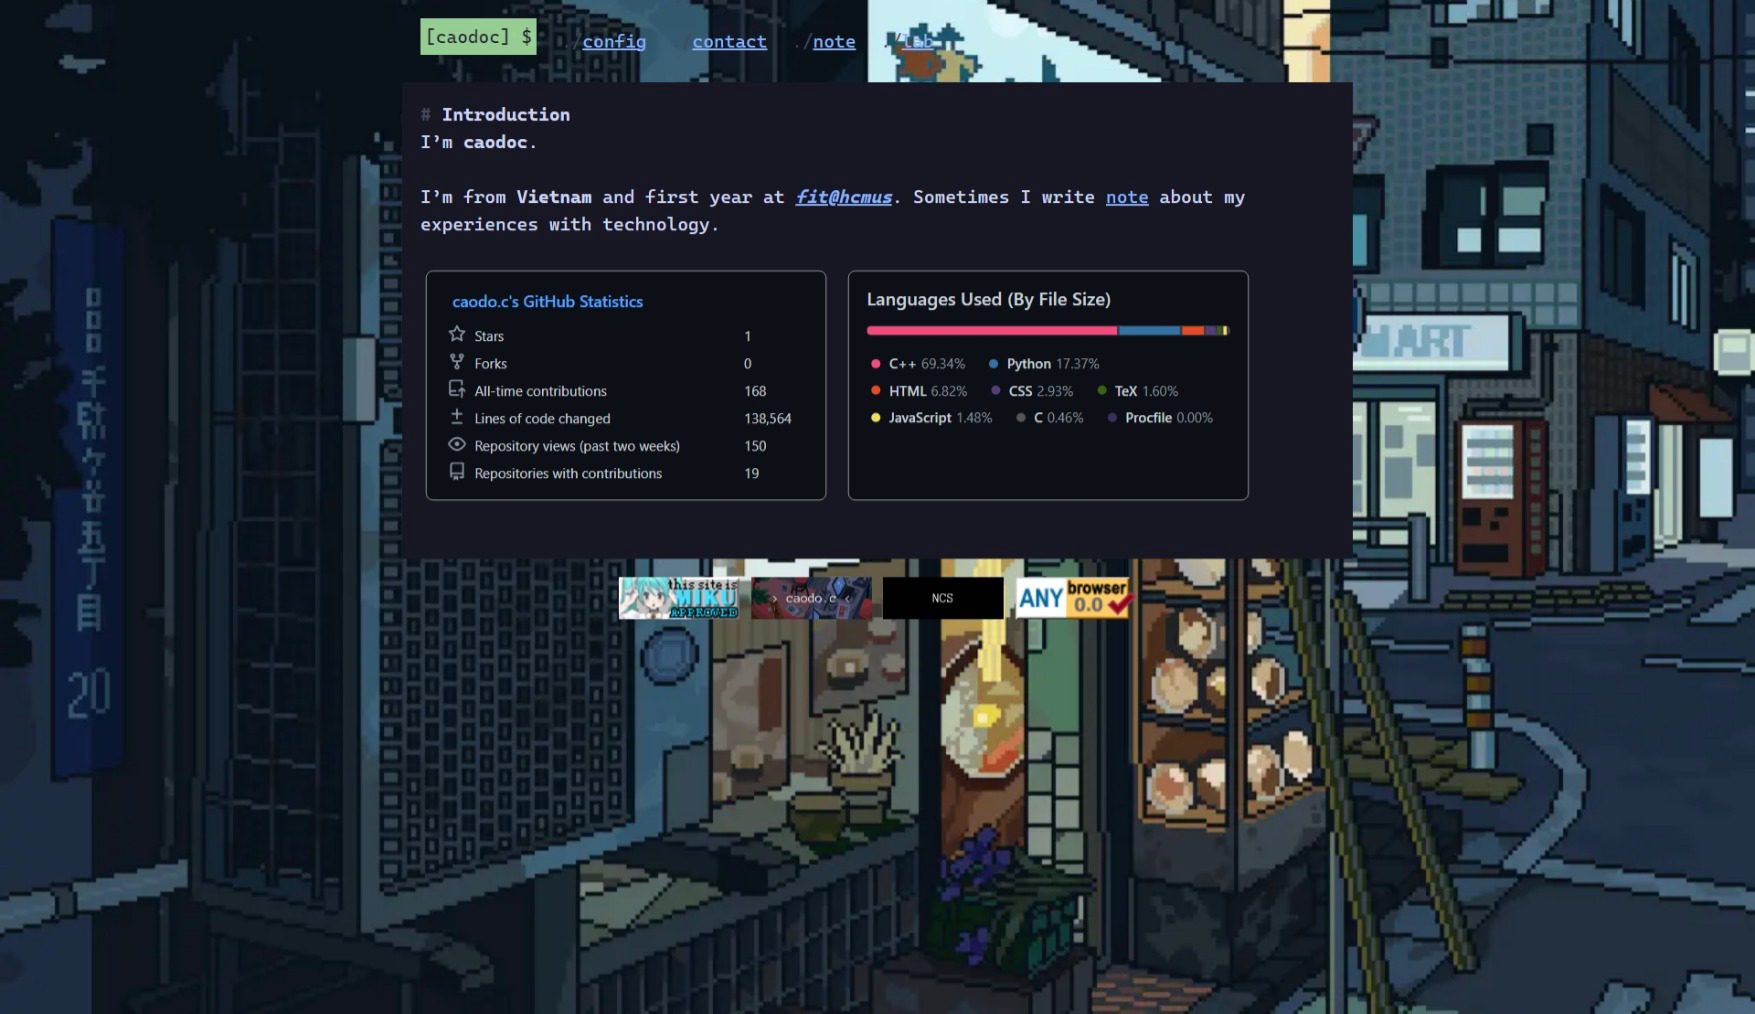
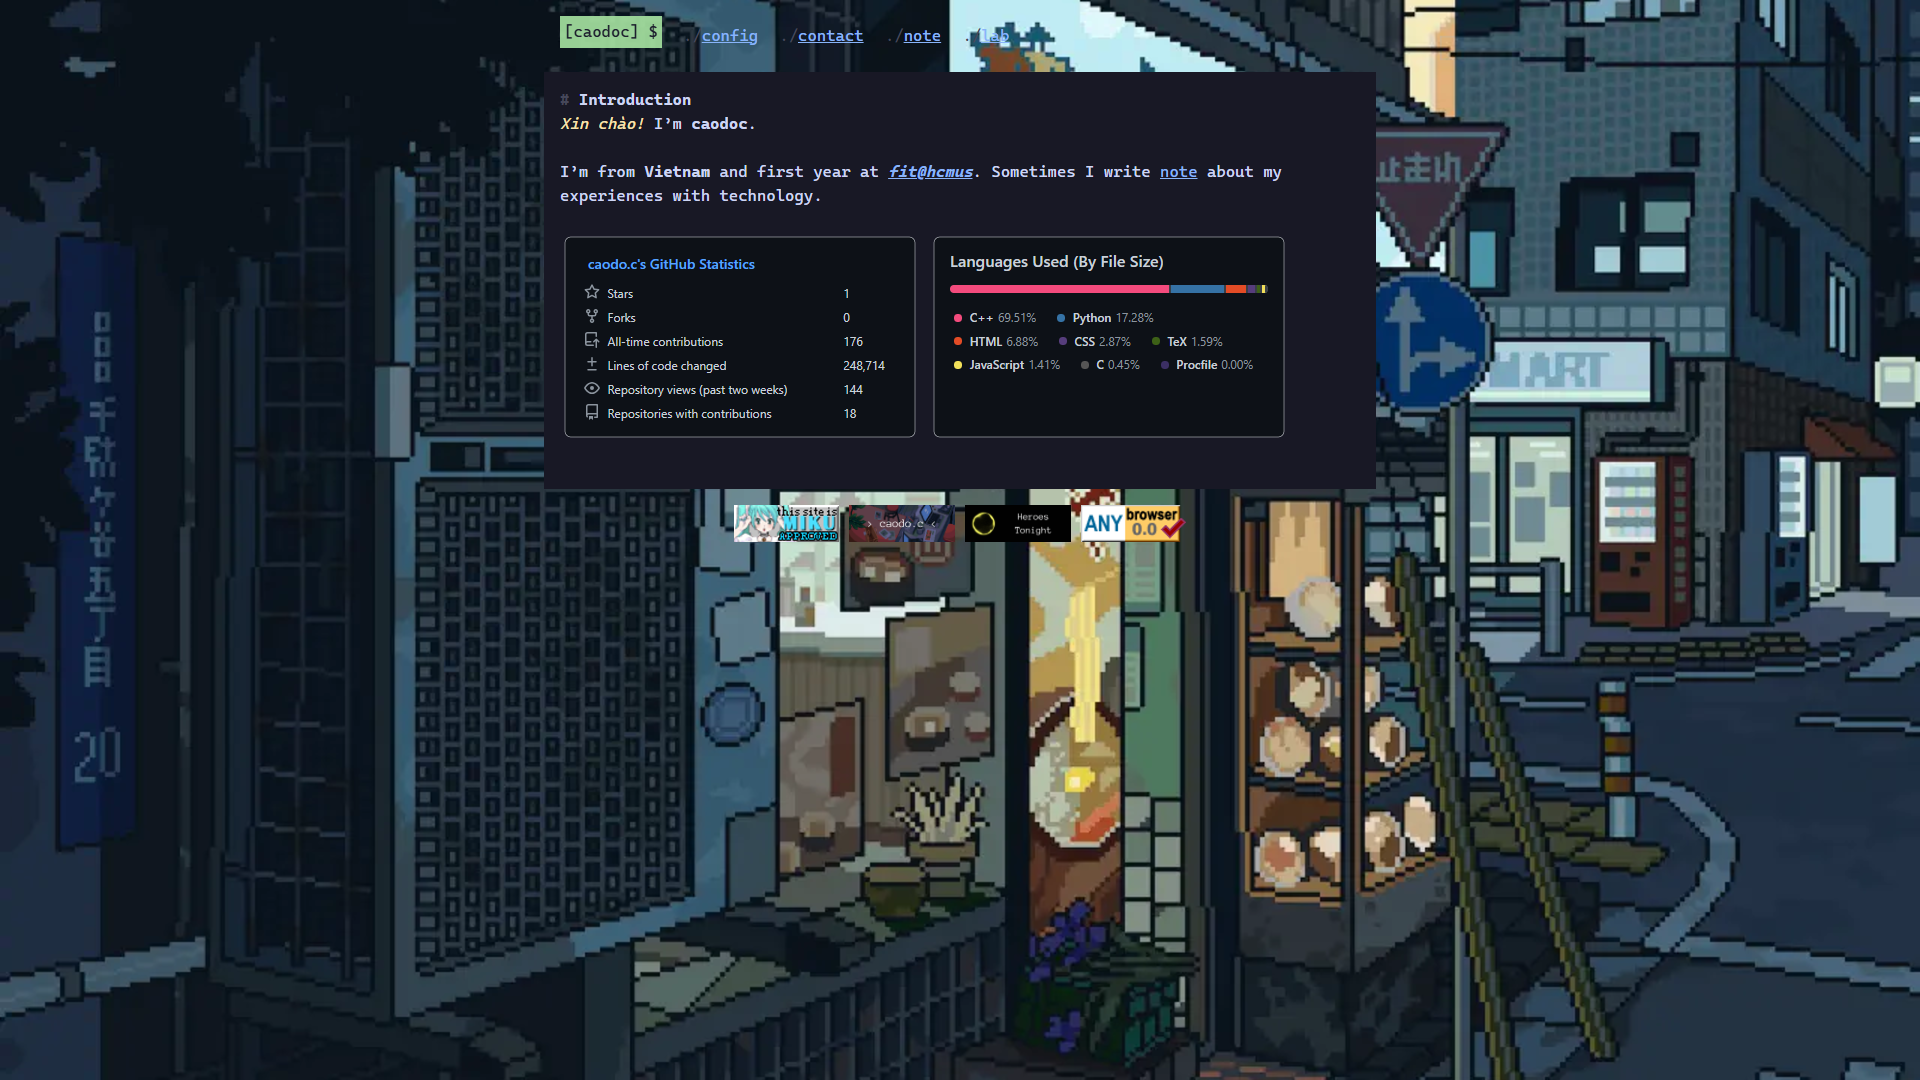
.

diff --git a/public/note/my-pc-configuration/index.html b/public/note/my-pc-configuration/index.html
@@ -33,7 +33,7 @@
 
 
 
-<title> My PC Configuration &ndash; caodoc </title>
+<title> My PC&#39;s Configuration &ndash; caodoc </title>
 
 <link rel="canonical" href="https://caodoc.is-a.dev">
 
@@ -74,31 +74,45 @@
 
             <section class="page-body">
     <header class="content-header">
-        <h1>My PC Configuration</h1>
+        <h1>My PC&rsquo;s Configuration</h1>
     </header>
     
     <div class="content-body">
-        <h2 id="faster-windows">Faster Windows:</h2>
+        <blockquote>
+<p>Last Updated: 24 November 2024</p>
+</blockquote>
+<h2 id="windows">Windows:</h2>
+<h3 id="tweak">Tweak:</h3>
 <ul>
-<li>Tweak Windows: <a href="https://winaero.com/winaero-tweaker/">Winaero Tweaker</a>.</li>
-<li>Remove bloatware: <a href="https://github.com/builtbybel/bloatbox">Bloatbox</a>.</li>
+<li>Free computer&rsquo;s resources: <a href="https://github.com/ChrisTitusTech/winutil/">ChrisTitusTech/winutil</a> &amp; <a href="https://winaero.com/winaero-tweaker/">Winaero Tweaker</a>.</li>
+<li>Remove unnecessary apps: <a href="https://github.com/builtbybel/bloatbox">Bloatbox</a>.</li>
 </ul>
-<h2 id="editor-visual-studio-codehttpscodevisualstudiocom-with">Editor: <a href="https://code.visualstudio.com/">Visual Studio Code</a> with</h2>
+<h3 id="editor">Editor:</h3>
+<ol>
+<li><a href="https://code.visualstudio.com/">Visual Studio Code</a></li>
+</ol>
 <ul>
 <li>Theme: <a href="https://marketplace.visualstudio.com/items?itemName=zhuangtongfa.Material-theme">One Dark Pro</a>.</li>
 <li>Extensions: <a href="https://marketplace.visualstudio.com/items?itemName=DivyanshuAgrawal.competitive-programming-helper">Competitive Programming Helper</a>, <a href="https://marketplace.visualstudio.com/items?itemName=adpyke.codesnap">CodeSnap</a>, <a href="https://marketplace.visualstudio.com/items?itemName=aaron-bond.better-comments">Better Comments</a>.</li>
 </ul>
-<h2 id="apps">Apps:</h2>
+<ol start="2">
+<li><a href="https://visualstudio.microsoft.com/">Visual Studio 2022</a></li>
+</ol>
 <ul>
-<li><a href="https://crystalmark.info/en/software/crystaldiskinfo/">Crystal Disk Info</a>: A SSD/HDD utility software.</li>
+<li>Theme: <a href="https://doki-theme.unthrottled.io/">Doki Theme</a></li>
+<li>Extensions: <a href="https://marketplace.visualstudio.com/items?itemName=NikolayBalakin.Outputenhancer">Output Enhancer</a>.</li>
+</ul>
+<h3 id="apps">Apps:</h3>
+<ul>
+<li><a href="https://crystalmark.info/en/software/crystaldiskinfo/">Crystal Disk Info</a>: Disks utility software.</li>
 <li><a href="https://www.voidtools.com/">Everything</a>: Better files/folders search.</li>
 <li><a href="https://notepad-plus-plus.org">Notepad++</a>: Extra text editor.</li>
 <li><a href="https://codecguide.com/download_kl.htm">K-Lite Codec</a>: Media player.</li>
 <li><a href="https://ohmyposh.dev/">Oh My Posh</a>: Customize Windows terminal, you can read my note on how to install Oh My Posh <a href="../ohmyposh">here</a>.</li>
 <li><a href="https://github.com/krlvm/PowerTunnel">PowerTunnel</a>: An extensible proxy server.</li>
-<li>&amp; more on my <a href="https://github.com/caodoc?tab=stars">GitHub stared repositories</a>.</li>
 </ul>
-<h2 id="osu-skin-shiro-seijohttpsosuppyshcommunityforumstopics1525944">Osu skin: <a href="https://osu.ppy.sh/community/forums/topics/1525944">Shiro Seijo</a></h2>
+<h2 id="ubuntu">Ubuntu:</h2>
+<p><em>Coming soon&hellip;</em></p>
 
     </div>
     <footer class="content-footer"></footer>

diff --git a/public/index.html b/public/index.html
@@ -2,7 +2,7 @@
 
 <html lang="en">
     <head>
-	<meta name="generator" content="Hugo 0.139.0"><script src="/livereload.js?mindelay=10&amp;v=2&amp;port=1313&amp;path=livereload" data-no-instant defer></script><meta http-equiv="Content-Type" content="text/html; charset=UTF-8">
+	<meta name="generator" content="Hugo 0.139.2"><script src="/livereload.js?mindelay=10&amp;v=2&amp;port=1313&amp;path=livereload" data-no-instant defer></script><meta http-equiv="Content-Type" content="text/html; charset=UTF-8">
 <meta name="viewport" content="width=device-width, initial-scale=1">
 
 
@@ -75,10 +75,16 @@
 
             <section class="page-body">
     <h1 id="introduction">Introduction</h1>
-<p><i> <text id="welcomeTextBody" style="color:var(--highlight);"> </text></i> I&rsquo;m <strong>caodoc</strong>.</p>
+<text id="welcomeTextBody" style="color:var(--highlight);"> </text>
 <p>I&rsquo;m from <strong>Vietnam</strong> and first year at <em><strong><a href="https://fit.hcmus.edu.vn">fit@hcmus</a></strong></em>. Sometimes I write <a href="/note">note</a> about my experiences with technology.</p>
-<p><img src="https://raw.githubusercontent.com/caodoc/github-stats/master/generated/overview.svg#gh-dark-mode-only" alt="">
-<img src="https://raw.githubusercontent.com/caodoc/github-stats/master/generated/languages.svg#gh-dark-mode-only" alt=""></p>
+<div id="index-img-container">
+    <img src="https://raw.githubusercontent.com/caodoc/github-stats/master/generated/overview.svg#gh-dark-mode-only">
+    <img src="https://raw.githubusercontent.com/caodoc/github-stats/master/generated/languages.svg#gh-dark-mode-only">
+</div>
+
+<style>
+    
+</style>
 
 
             </section>

diff --git a/public/note/index.html b/public/note/index.html
@@ -107,8 +107,8 @@ You may find something useful here.</p>
 <br/>
 <text> <text style="color: #fab387"> Published on: </text> 2 September 2023. </text>
     
-        <h2> <a href="http://localhost:1313/note/my-pc-configuration/"> My PC Configuration </a> </h2>
-<text> <text style="color: #f38ba8"> Description: </text> The way I configure my PC for long-term use. </text>
+        <h2> <a href="http://localhost:1313/note/my-pc-configuration/"> My PC&rsquo;s Configuration </a> </h2>
+<text> <text style="color: #f38ba8"> Description: </text> How I configured my PC. </text>
 <br/>
 <text> <text style="color: #fab387"> Published on: </text> 13 August 2023. </text>
     

diff --git a/public/lab/tra-cuu-diem-thi-thpt-2024/index.html b/public/lab/tra-cuu-diem-thi-thpt-2024/index.html
@@ -82,6 +82,9 @@
 <li>File thông tin được lấy từ <a href="https://github.com/anhdung98/diem_thi_2024/">github.com/anhdung98/diem_thi_2024</a>.</li>
 <li>Số báo danh chỉ bao gồm 8 số.</li>
 </ul>
+<blockquote>
+<p>API có thể sẽ không online 24/7, nếu không tra cứu được thì hãy thử lại sau một thời gian.</p>
+</blockquote>
 <h2> Nhập số báo danh: </h2>
 
 </br>

diff --git a/public/js/index.js b/public/js/index.js
@@ -59,7 +59,7 @@ const welcomeText = [
 
 console.log(window.location.href);
 
-if (window.location.href === "https://caodoc.is-a.dev" || window.location.href === "http://localhost:1313/")
+if (window.location.href === "https://caodoc.is-a.dev/" || window.location.href === "http://localhost:1313/")
 {
     document.getElementById("welcomeTextBody").innerText = welcomeText[0] + "! ";
 

diff --git a/public/contact/index.html b/public/contact/index.html
@@ -107,7 +107,7 @@
       </tr>
       <tr>
           <td>osu!</td>
-          <td><a href="https://osu.ppy.sh/users/21126929">Spacer Wellerman</a></td>
+          <td><a href="https://osu.ppy.sh/users/21126929">Spacer Wellerman</a> (skin: <a href="https://osu.ppy.sh/community/forums/topics/1525944?n=1">Shiro Seijo</a>)</td>
       </tr>
   </tbody>
 </table>

diff --git a/themes/chloe/layouts/shortcodes/indexZ.html b/themes/chloe/layouts/shortcodes/indexZ.html
@@ -1,0 +1,8 @@
+<div id="index-img-container">
+    <img src="https://raw.githubusercontent.com/caodoc/github-stats/master/generated/overview.svg#gh-dark-mode-only">
+    <img src="https://raw.githubusercontent.com/caodoc/github-stats/master/generated/languages.svg#gh-dark-mode-only">
+</div>
+
+<style>
+    
+</style>

diff --git a/themes/chloe/layouts/shortcodes/indexHello.html b/themes/chloe/layouts/shortcodes/indexHello.html
@@ -1,1 +1,1 @@
-<i> <text id="welcomeTextBody" style="color:var(--highlight);"> </text></i>
+<text id="welcomeTextBody" style="color:var(--highlight);"> </text>

diff --git a/themes/chloe/content/note/my-pc-configuration.md b/themes/chloe/content/note/my-pc-configuration.md
@@ -1,24 +1,32 @@
 +++
-title = "My PC Configuration"
+title = "My PC's Configuration"
 date = "2023-08-13"
-description = "The way I configure my PC for long-term use."
+description = "How I configured my PC."
 +++
 
-## Faster Windows:
-* Tweak Windows: [Winaero Tweaker](https://winaero.com/winaero-tweaker/).
-* Remove bloatware: [Bloatbox](https://github.com/builtbybel/bloatbox).
+> Last Updated: 24 November 2024
 
-## Editor: [Visual Studio Code](https://code.visualstudio.com/) with
-* Theme: [One Dark Pro](https://marketplace.visualstudio.com/items?itemName=zhuangtongfa.Material-theme).
-* Extensions: [Competitive Programming Helper](https://marketplace.visualstudio.com/items?itemName=DivyanshuAgrawal.competitive-programming-helper), [CodeSnap](https://marketplace.visualstudio.com/items?itemName=adpyke.codesnap), [Better Comments](https://marketplace.visualstudio.com/items?itemName=aaron-bond.better-comments).
+## Windows:
+### Tweak:
+- Free computer's resources: [ChrisTitusTech/winutil](https://github.com/ChrisTitusTech/winutil/) & [Winaero Tweaker](https://winaero.com/winaero-tweaker/).
+- Remove unnecessary apps: [Bloatbox](https://github.com/builtbybel/bloatbox).
 
-## Apps:
-* [Crystal Disk Info](https://crystalmark.info/en/software/crystaldiskinfo/): A SSD/HDD utility software.
+### Editor:
+1. [Visual Studio Code](https://code.visualstudio.com/)
+- Theme: [One Dark Pro](https://marketplace.visualstudio.com/items?itemName=zhuangtongfa.Material-theme).
+- Extensions: [Competitive Programming Helper](https://marketplace.visualstudio.com/items?itemName=DivyanshuAgrawal.competitive-programming-helper), [CodeSnap](https://marketplace.visualstudio.com/items?itemName=adpyke.codesnap), [Better Comments](https://marketplace.visualstudio.com/items?itemName=aaron-bond.better-comments).
+
+2. [Visual Studio 2022](https://visualstudio.microsoft.com/)
+- Theme: [Doki Theme](https://doki-theme.unthrottled.io/)
+- Extensions: [Output Enhancer](https://marketplace.visualstudio.com/items?itemName=NikolayBalakin.Outputenhancer).
+
+### Apps:
+* [Crystal Disk Info](https://crystalmark.info/en/software/crystaldiskinfo/): Disks utility software.
 * [Everything](https://www.voidtools.com/): Better files/folders search.
 * [Notepad++](https://notepad-plus-plus.org): Extra text editor.
 * [K-Lite Codec](https://codecguide.com/download_kl.htm): Media player.
 * [Oh My Posh](https://ohmyposh.dev/): Customize Windows terminal, you can read my note on how to install Oh My Posh [here](../ohmyposh).
 * [PowerTunnel](https://github.com/krlvm/PowerTunnel): An extensible proxy server.
-* & more on my [GitHub stared repositories](https://github.com/caodoc?tab=stars).
 
-## Osu skin: [Shiro Seijo](https://osu.ppy.sh/community/forums/topics/1525944)
+## Ubuntu:
+*Coming soon...*

diff --git a/themes/chloe/content/_index.md b/themes/chloe/content/_index.md
@@ -1,8 +1,7 @@
 # Introduction
 
-{{< indexHello >}} I'm **caodoc**.
+{{< indexHello >}}
 
 I'm from **Vietnam** and first year at ***[fit@hcmus](https://fit.hcmus.edu.vn)***. Sometimes I write [note](/note) about my experiences with technology.
 
-![](https://raw.githubusercontent.com/caodoc/github-stats/master/generated/overview.svg#gh-dark-mode-only)
-![](https://raw.githubusercontent.com/caodoc/github-stats/master/generated/languages.svg#gh-dark-mode-only)
+{{< indexZ >}}

diff --git a/themes/chloe/content/contact.md b/themes/chloe/content/contact.md
@@ -17,4 +17,4 @@ title = "Contact"
 |       |       |
 |-------|-------|
 | Steam | [Chloe](https://steamcommunity.com/profiles/76561199134046194)
-| osu!  | [Spacer Wellerman](https://osu.ppy.sh/users/21126929)
+| osu!  | [Spacer Wellerman](https://osu.ppy.sh/users/21126929) (skin: [Shiro Seijo](https://osu.ppy.sh/community/forums/topics/1525944?n=1))

diff --git a/themes/chloe/content/lab/tra-cuu-diem-thi-thpt-2024.md b/themes/chloe/content/lab/tra-cuu-diem-thi-thpt-2024.md
@@ -6,5 +6,6 @@ date = "2024-07-25"
 
 + File thông tin được lấy từ [github.com/anhdung98/diem_thi_2024](https://github.com/anhdung98/diem_thi_2024/).
 + Số báo danh chỉ bao gồm 8 số.
+> API có thể sẽ không online 24/7, nếu không tra cứu được thì hãy thử lại sau một thời gian.
 
 {{< tra-cuu-diem-thi >}}
